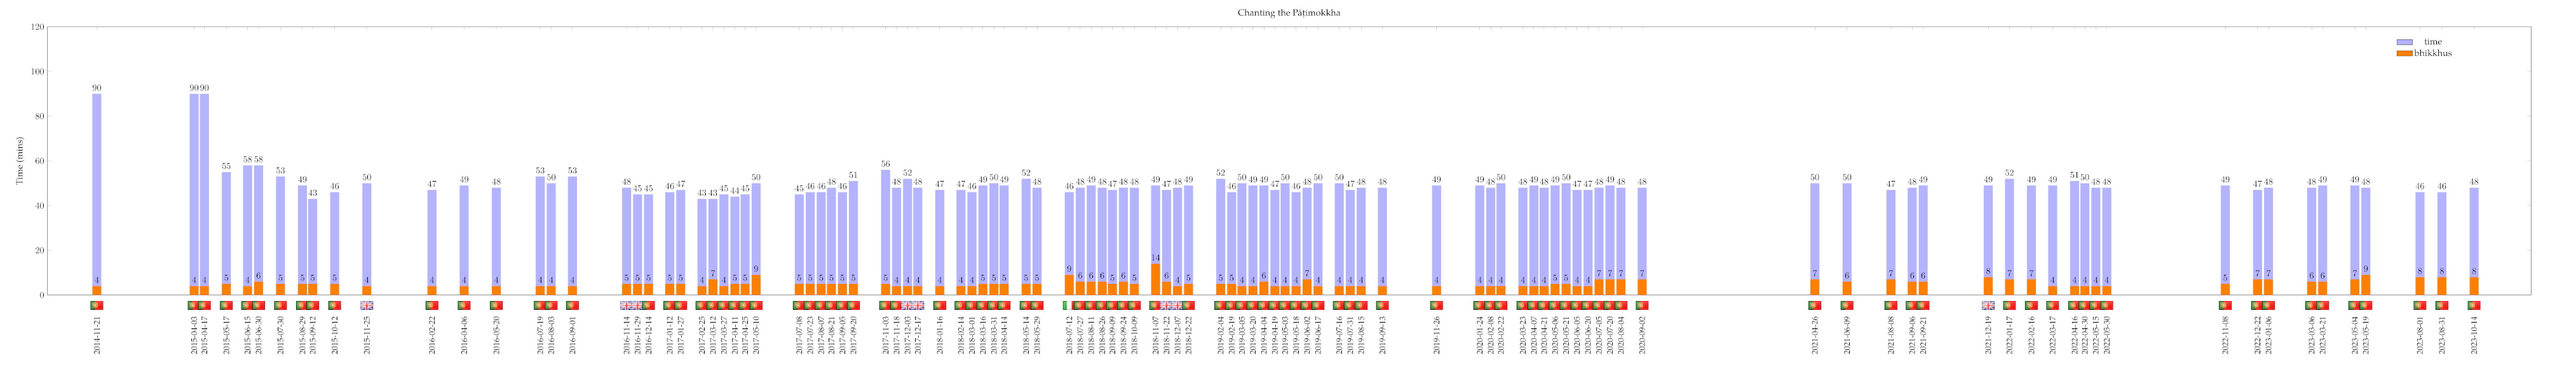
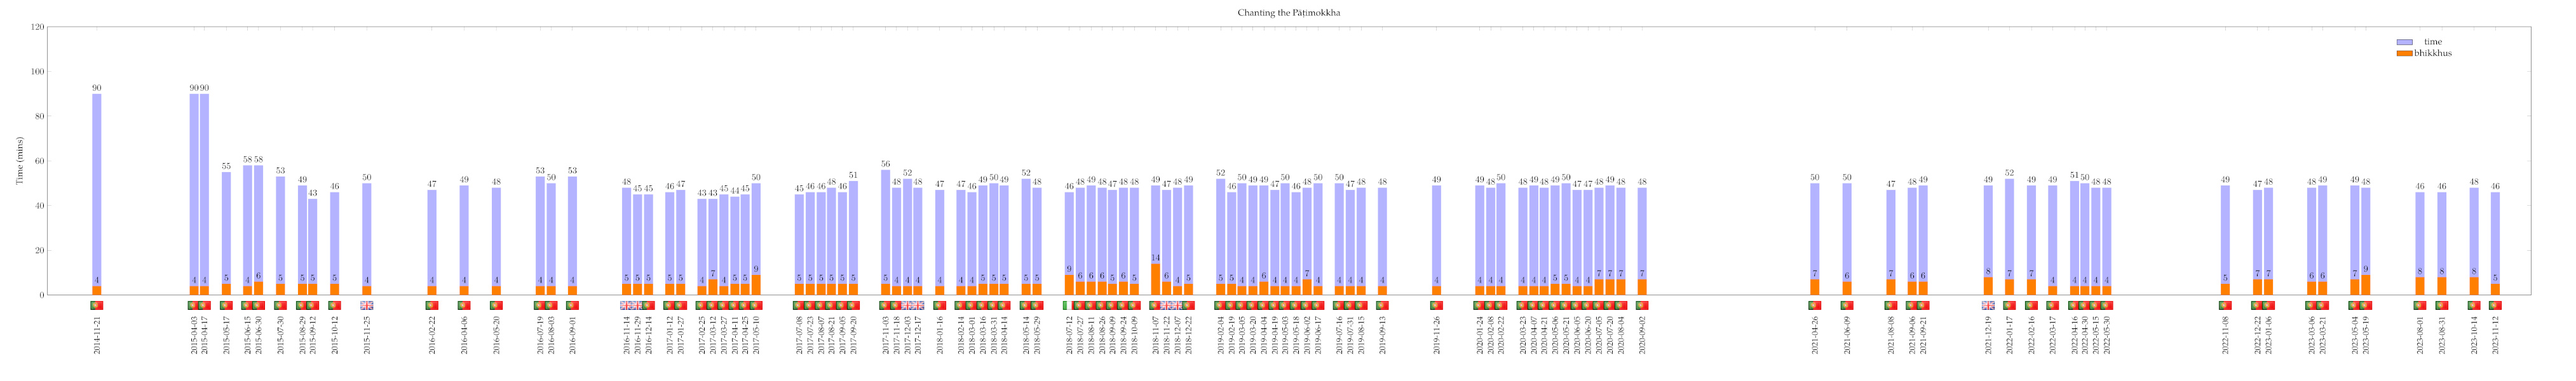
upd

diff --git a/src/patimokkha-chanting-chart.tex b/src/patimokkha-chanting-chart.tex
@@ -196,6 +196,7 @@
   \node [anchor=south, yshift=-20pt] at (axis cs:2023-08-01,0) {\includegraphics[width=5mm]{pt}};
   \node [anchor=south, yshift=-20pt] at (axis cs:2023-08-31,0) {\includegraphics[width=5mm]{pt}};
   \node [anchor=south, yshift=-20pt] at (axis cs:2023-10-14,0) {\includegraphics[width=5mm]{pt}};
+  \node [anchor=south, yshift=-20pt] at (axis cs:2023-11-12,0) {\includegraphics[width=5mm]{pt}};
 
 \end{axis}
 \end{tikzpicture}
